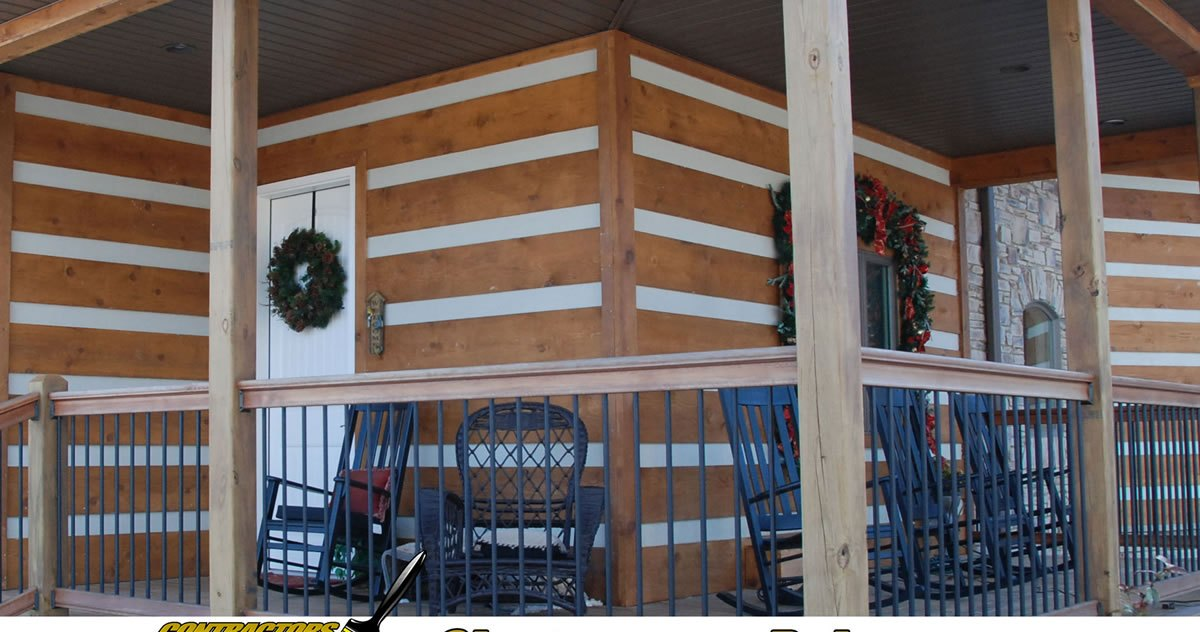
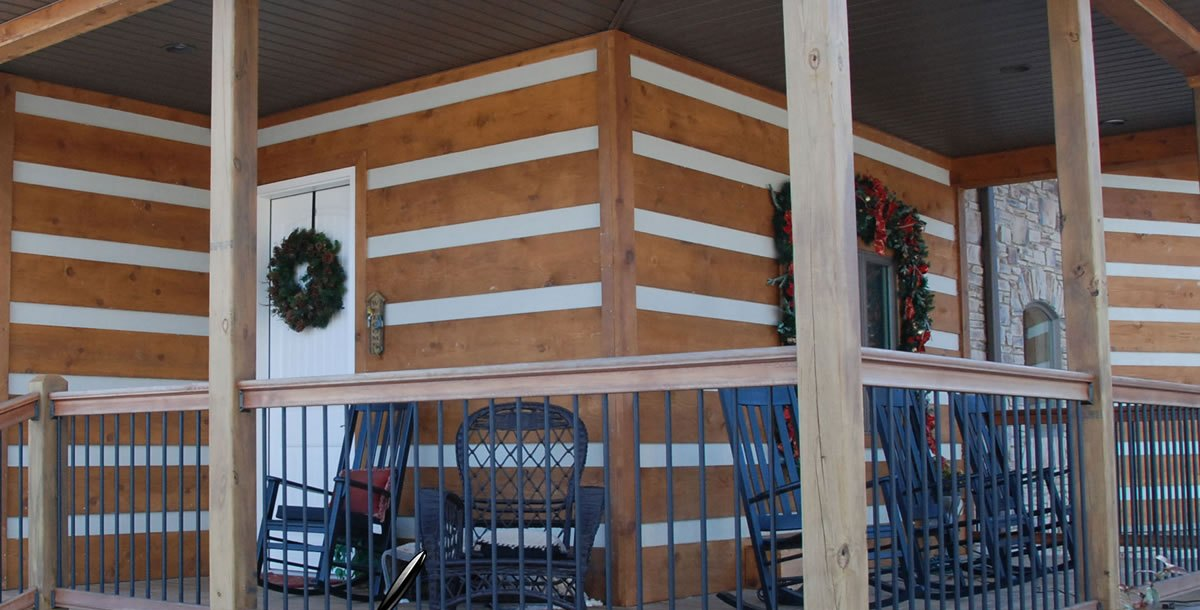
Add 1 pay-now homepage concepts

diff --git a/site-contractors-choice-painting-41173430/index.html b/site-contractors-choice-painting-41173430/index.html
@@ -54,4 +54,4 @@ footer a{color:#aab3bf}
 section{padding:52px 0}.hero.full .wrap{padding:70px 22px 80px}
 .callbar{display:flex;position:fixed;left:0;right:0;bottom:0;z-index:30;background:var(--acc);color:#fff;justify-content:center;padding:14px;font-weight:800;text-decoration:none;font-size:1.05rem;box-shadow:0 -6px 24px rgba(0,0,0,.25)}
 body{padding-bottom:52px}header.top .btn{display:none}.gal{grid-template-columns:repeat(2,1fr)}}
-</style></head><body><header class="top"><div class="wrap"><a class="brand" href="#top"><img src="img/p00.jpg" alt="Contractors Choice Painting logo"><span></span></a><nav class="links"><a href="#services">Services</a><a href="#about">About</a><a href="#work">Our work</a><a href="#contact">Contact</a></nav><a class="btn sm" href="tel:+14236198129">(423) 619-8129</a></div></header><div class="hero" id="top"><div class="wrap"><div class="copy"><p class="eyebrow">Contractors Choice Painting</p><h1>Chattanooga Premiere Residential &amp; Commercial Painting Company</h1><p class="sub">A full service residential and commercial painting &amp; pressure washing company. We Paint It All!</p><div class="cta"><a class="btn" href="tel:+14236198129">Call (423) 619-8129</a><a class="btn ghost" href="mailto:info@chattanoogapainters.com">Email us</a></div></div><div class="shot"><img src="img/p41.jpg" alt="Contractors Choice Painting project photo" width="1200" height="632"></div></div></div><div class="strip"><div class="wrap"><span>Residential and Commercial</span><span>Licensed and insured professionals</span><span>Pressure washing</span></div></div><section id="services"><div class="wrap"><h2>Services</h2><p class="lead">What Contractors Choice Painting offers.</p><div class="cards"><div class="card"><i></i><h3>Interior Painting</h3><p>Walls, ceilings, doors, windows, cabinets, trim and more.</p></div><div class="card"><i></i><h3>Exterior Painting</h3><p>Siding, stucco, fascia and eaves, shutters, decks, railings and patio covers.</p></div><div class="card"><i></i><h3>Pressure Washing</h3><p>Hot-and-cold water pressure washing for small and large projects.</p></div><div class="card"><i></i><h3>Commercial</h3><p>Interior and exterior painting for businesses.</p></div></div></div></section><section class="about" id="about"><div class="wrap"><div><h2>About Contractors Choice Painting</h2><p>When we are painting your home or business, we take extra special care of your property. The paint is only applied to the proper surfaces and not to the floors or furnishings.</p><p>You will see a professional staff of painters who will properly prepare the surfaces for paint, cover the areas they are not painting, thoroughly clean up each day and paint according to industry standards.</p><div class="cta" style="margin-top:22px"><a class="btn" href="tel:+14236198129">Call (423) 619-8129</a></div></div><div class="pic"><img src="img/p03.jpg" alt="Contractors Choice Painting" loading="lazy" width="400" height="300"></div></div></section><section id="work"><div class="wrap"><h2>Our work</h2><p class="lead">Photos from their own site.</p><div class="gal"><div><img src="img/p01.jpg" alt="Contractors Choice Painting work photo" loading="lazy"></div><div><img src="img/p04.jpg" alt="Contractors Choice Painting work photo" loading="lazy"></div><div><img src="img/p35.jpg" alt="Contractors Choice Painting work photo" loading="lazy"></div><div><img src="img/p36.jpg" alt="Contractors Choice Painting work photo" loading="lazy"></div><div><img src="img/p37.jpg" alt="Contractors Choice Painting work photo" loading="lazy"></div><div><img src="img/p34.jpg" alt="Contractors Choice Painting work photo" loading="lazy"></div><div><img src="img/p43.jpg" alt="Contractors Choice Painting work photo" loading="lazy"></div><div><img src="img/p42.jpg" alt="Contractors Choice Painting work photo" loading="lazy"></div></div></div></section><section class="contact" id="contact"><div class="wrap"><div><h2>Get in touch</h2><p style="color:rgba(255,255,255,.8);margin:0 0 12px">Call or email Contractors Choice Painting directly.</p><a class="big" href="tel:+14236198129">(423) 619-8129</a><br></div><div class="info"><div><small>Phone</small><a href="tel:+14236198129">(423) 619-8129</a></div><div><small>Email</small><a href="mailto:info@chattanoogapainters.com">info@chattanoogapainters.com</a></div><div><small>Address</small>2300 Gale Ln., Chattanooga, TN 37421</div></div></div></section><footer><div class="wrap"><span>&copy; Contractors Choice Painting. Business name, phone and address as publicly listed.</span><span>Concept by McCrawAI &mdash; <a href="https://mccrawai.com">https://mccrawai.com</a></span></div></footer><a class="callbar" href="tel:+14236198129">Tap to call (423) 619-8129</a></body></html>
+</style></head><body><header class="top"><div class="wrap"><a class="brand" href="#top"><img src="img/p00.jpg" alt="Contractors Choice Painting logo"><span></span></a><nav class="links"><a href="#services">Services</a><a href="#about">About</a><a href="#work">Our work</a><a href="#contact">Contact</a></nav><a class="btn sm" href="tel:+14236198129">(423) 619-8129</a></div></header><div class="hero" id="top"><div class="wrap"><div class="copy"><p class="eyebrow">Contractors Choice Painting</p><h1>Chattanooga Premiere Residential &amp; Commercial Painting Company</h1><p class="sub">A full service residential and commercial painting &amp; pressure washing company. We Paint It All!</p><div class="cta"><a class="btn" href="tel:+14236198129">Call (423) 619-8129</a><a class="btn ghost" href="mailto:info@chattanoogapainters.com">Email us</a></div></div><div class="shot"><img src="img/p41.jpg" alt="Contractors Choice Painting project photo" width="1200" height="610"></div></div></div><div class="strip"><div class="wrap"><span>Residential and Commercial</span><span>Licensed and insured professionals</span><span>Pressure washing</span></div></div><section id="services"><div class="wrap"><h2>Services</h2><p class="lead">What Contractors Choice Painting offers.</p><div class="cards"><div class="card"><i></i><h3>Interior Painting</h3><p>Walls, ceilings, doors, windows, cabinets, trim and more.</p></div><div class="card"><i></i><h3>Exterior Painting</h3><p>Siding, stucco, fascia and eaves, shutters, decks, railings and patio covers.</p></div><div class="card"><i></i><h3>Pressure Washing</h3><p>Hot-and-cold water pressure washing for small and large projects.</p></div><div class="card"><i></i><h3>Commercial</h3><p>Interior and exterior painting for businesses.</p></div></div></div></section><section class="about" id="about"><div class="wrap"><div><h2>About Contractors Choice Painting</h2><p>When we are painting your home or business, we take extra special care of your property. The paint is only applied to the proper surfaces and not to the floors or furnishings.</p><p>You will see a professional staff of painters who will properly prepare the surfaces for paint, cover the areas they are not painting, thoroughly clean up each day and paint according to industry standards.</p><div class="cta" style="margin-top:22px"><a class="btn" href="tel:+14236198129">Call (423) 619-8129</a></div></div><div class="pic"><img src="img/p03.jpg" alt="Contractors Choice Painting" loading="lazy" width="400" height="300"></div></div></section><section id="work"><div class="wrap"><h2>Our work</h2><p class="lead">Photos from their own site.</p><div class="gal"><div><img src="img/p01.jpg" alt="Contractors Choice Painting work photo" loading="lazy"></div><div><img src="img/p04.jpg" alt="Contractors Choice Painting work photo" loading="lazy"></div><div><img src="img/p35.jpg" alt="Contractors Choice Painting work photo" loading="lazy"></div><div><img src="img/p36.jpg" alt="Contractors Choice Painting work photo" loading="lazy"></div><div><img src="img/p37.jpg" alt="Contractors Choice Painting work photo" loading="lazy"></div><div><img src="img/p34.jpg" alt="Contractors Choice Painting work photo" loading="lazy"></div><div><img src="img/p43.jpg" alt="Contractors Choice Painting work photo" loading="lazy"></div><div><img src="img/p42.jpg" alt="Contractors Choice Painting work photo" loading="lazy"></div></div></div></section><section class="contact" id="contact"><div class="wrap"><div><h2>Get in touch</h2><p style="color:rgba(255,255,255,.8);margin:0 0 12px">Call or email Contractors Choice Painting directly.</p><a class="big" href="tel:+14236198129">(423) 619-8129</a><br></div><div class="info"><div><small>Phone</small><a href="tel:+14236198129">(423) 619-8129</a></div><div><small>Email</small><a href="mailto:info@chattanoogapainters.com">info@chattanoogapainters.com</a></div><div><small>Address</small>2300 Gale Ln., Chattanooga, TN 37421</div></div></div></section><footer><div class="wrap"><span>&copy; Contractors Choice Painting. Business name, phone and address as publicly listed.</span><span>Concept by McCrawAI &mdash; <a href="https://mccrawai.com">https://mccrawai.com</a></span></div></footer><a class="callbar" href="tel:+14236198129">Tap to call (423) 619-8129</a></body></html>
